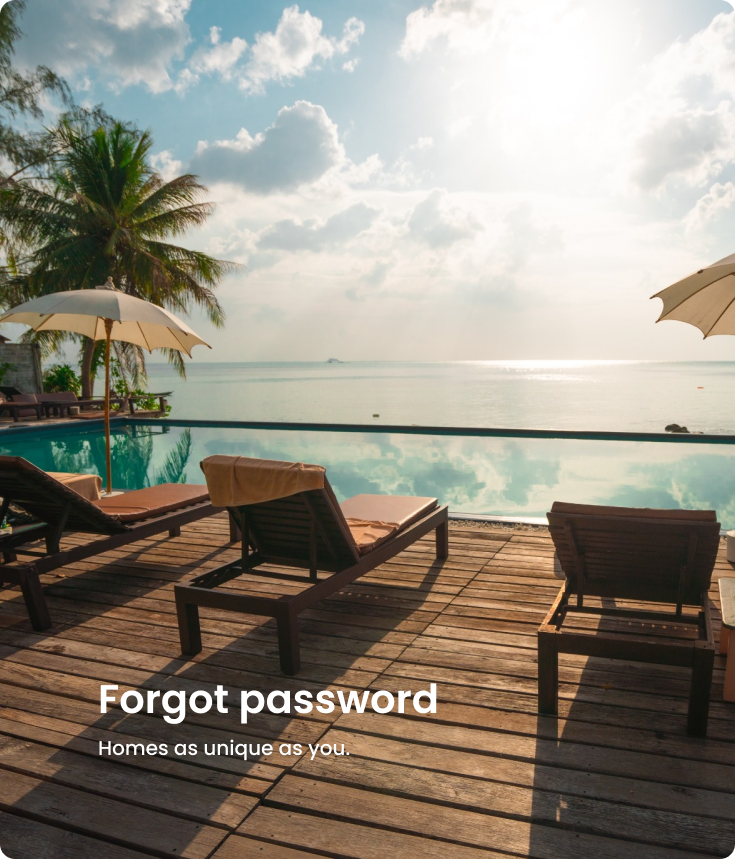
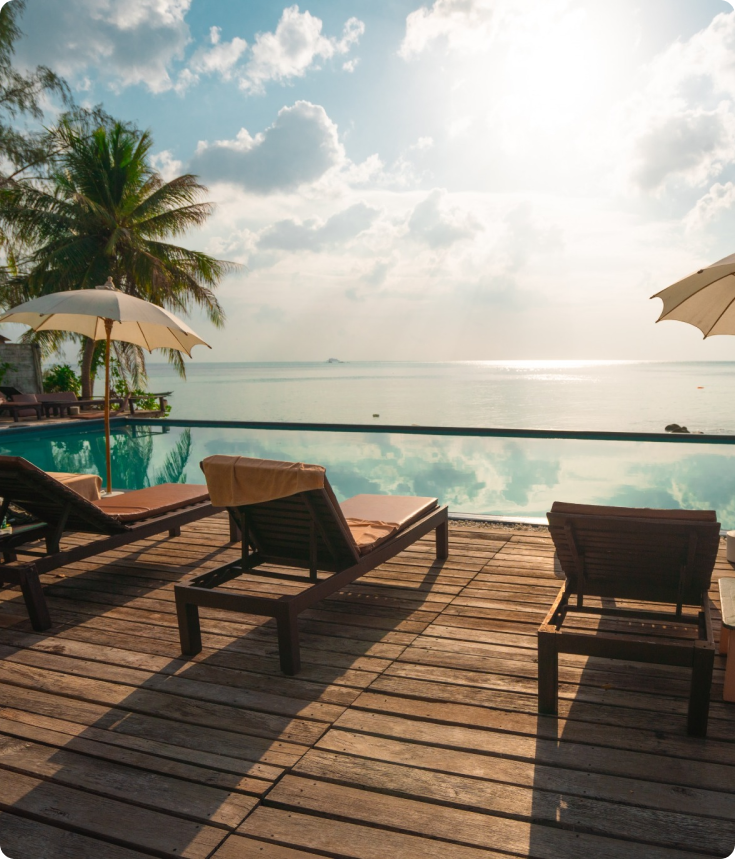
update login and add logic

Changed region(s): [[0.1197, 0.787, 0.5986, 0.8778]]

diff --git a/src/app/feature/auth/components/login/login.component.html b/src/app/feature/auth/components/login/login.component.html
@@ -1,14 +1,16 @@
 <section class="section-auth d-flex align-items-center justify-content-center">
   <div class="container">
-    <div class="row w-100 auth">
-      <div class="col-md-6">
+    <div class="row auth">
+      <div class="col-lg-6">
         <div class="logo">
           <img
             src="../../../../../assets/images/landing/Staycation.svg"
             alt="logo"
           />
         </div>
-        <div class="auth-form p-5 d-flex flex-column gap-5">
+        <div
+          class="auth-form px-lg-5 px-3 py-5 d-flex flex-column gap-md-5 gap-4"
+        >
           <div class="auth-title">
             <h2 class="mb-4">Sign in</h2>
             <p class="mb-0">If you don’t have an account register</p>
@@ -17,38 +19,95 @@
               <a routerLink="/auth/register" class="fw-bold">Register here !</a>
             </p>
           </div>
-          <form class="d-flex flex-column gap-4">
+
+          <form
+            class="d-flex flex-column gap-4"
+            [formGroup]="loginForm"
+            (ngSubmit)="onLogin(loginForm)"
+          >
             <div class="d-flex flex-column gap-2">
               <label>Email Address</label>
-              <input
-                type="email"
-                pInputText
-                aria-describedby="email-help"
-                placeholder="Please type here ..."
-              />
-              <small id="email-help"> </small>
+              <span class="p-input-icon-right">
+                <i class="pi pi-envelope"></i>
+                <input
+                  type="email"
+                  formControlName="email"
+                  pInputText
+                  aria-describedby="email-help"
+                  placeholder="Please type here ..."
+                />
+              </span>
+              <div class="position-relative">
+                <small
+                  class="text-danger"
+                  *ngIf="
+                    loginForm.get('email')?.invalid &&
+                    loginForm.get('email')?.touched &&
+                    loginForm.get('email')?.hasError('required')
+                  "
+                >
+                  Email is required.
+                </small>
+                <small
+                  class="text-danger"
+                  *ngIf="
+                    loginForm.get('email')?.touched &&
+                    loginForm.get('email')?.hasError('email')
+                  "
+                >
+                  Invalid email format.
+                </small>
+              </div>
             </div>
 
             <div class="d-flex flex-column gap-2">
               <label>Password</label>
               <p-password
+                formControlName="password"
                 [toggleMask]="true"
                 placeholder="Please type here ..."
               ></p-password>
-              <a routerLink="/auth/register" class="text-end"
-                >Forgot Password ?</a
-              >
+              <div class="position-relative">
+                <small
+                  *ngIf="
+                    loginForm.get('password')?.touched &&
+                    loginForm.get('password')?.invalid &&
+                    loginForm.get('password')?.hasError('required')
+                  "
+                  class="text-danger"
+                >
+                  Password is required.
+                </small>
+                <small
+                  *ngIf="
+                    loginForm.get('password')?.touched &&
+                    loginForm.get('password')?.hasError('minlength')
+                  "
+                  class="text-danger"
+                >
+                  Password must be at least 6 characters.
+                </small>
+              </div>
             </div>
 
             <p-button
               label="Login"
               [loading]="loading"
-              class="btn-main"
+              class="btn-main mt-3"
+              type="submit"
             ></p-button>
+            <span class="text-center">
+              <a routerLink="/auth/forget-password">Forgot Password ?</a>
+            </span>
           </form>
         </div>
       </div>
-      <div class="col-md-6 login-back"></div>
+      <div
+        class="col-lg-6 d-lg-flex d-none login-back p-5 d-flex flex-column justify-content-end"
+      >
+        <h2 class="main-color">Sign in to Roamhome</h2>
+        <p class="main-color">Homes as unique as you.</p>
+      </div>
     </div>
   </div>
 </section>

diff --git a/src/app/feature/auth/components/login/login.component.ts b/src/app/feature/auth/components/login/login.component.ts
@@ -1,5 +1,10 @@
 import { Component } from '@angular/core';
-
+import { AuthService } from './../../services/auth.service';
+import { FormControl, FormGroup, Validators } from '@angular/forms';
+import { LoginRequest } from '../../interfaces/login-request';
+import { Router } from '@angular/router';
+import { MessageService } from 'primeng/api';
+import { LoginResponse } from '../../interfaces/login-response';
 @Component({
   selector: 'app-login',
   templateUrl: './login.component.html',
@@ -7,4 +12,54 @@ import { Component } from '@angular/core';
 })
 export class LoginComponent {
   loading: boolean = false;
+  response: LoginResponse;
+
+  loginForm = new FormGroup({
+    email: new FormControl(null, [Validators.required, Validators.email]),
+    password: new FormControl(null, [
+      Validators.required,
+      Validators.minLength(6),
+    ]),
+  });
+
+  constructor(
+    private authService: AuthService,
+    private messageService: MessageService,
+    private router: Router
+  ) {}
+
+  onLogin(data: FormGroup) {
+    this.loginForm.markAllAsTouched();
+    if (data.invalid) {
+      return;
+    }
+
+    this.loading = true;
+    this.authService.login(data.value as LoginRequest).subscribe({
+      next: (res) => {
+        this.response = res;
+      },
+      error: (error) => {
+        this.loading = false;
+        this.messageService.add({
+          severity: 'error',
+          summary: 'Fail',
+          detail: error.error.message,
+        });
+      },
+      complete: () => {
+        this.loading = false;
+        this.messageService.add({
+          severity: 'success',
+          summary: 'Success',
+          detail: this.response.message,
+        });
+        if (this.response.data.user.role == 'admin') {
+          this.router.navigate(['/dashboard']);
+        } else if (this.response.data.user.role == 'user') {
+          this.router.navigate(['/landing']);
+        }
+      },
+    });
+  }
 }

diff --git a/src/assets/styles/pages/auth.scss b/src/assets/styles/pages/auth.scss
@@ -1,23 +1,40 @@
 .section-auth {
   min-height: 100vh;
-  background-color: #f2f2f2;
+  background-color: var(--bg-gary-color);
 
   .auth {
-    background-color: #fff;
-    color: #333;
+    background-color: var(--bg-main-color);
+    color: var(--default-color);
     padding: 30px;
     border-radius: 15px;
-    min-height: 85vh;
+    max-height: 100%;
+    min-height: 650px;
+    width: 90%;
+    margin-inline: auto;
+    margin-block: 10px;
 
     a,
     label {
-      color: #152C5B !important;
+      color: var(--ternary-color) !important;
     }
 
     button {
       width: 100%;
     }
+
+    small {
+      position: absolute;
+      
+    }
   }
+
+  @media (max-width: 500px) {
+    .auth {
+      padding-inline: 10px;
+      width: 100%;
+    }
+  }
+
 
   .login-back {
     background: url(../../images/auth/login.png) no-repeat;

diff --git a/src/app/feature/auth/services/auth.service.ts b/src/app/feature/auth/services/auth.service.ts
@@ -6,14 +6,19 @@ import { Observable } from 'rxjs';
 import { ResetPasswordRequest } from '../interfaces/reset-password-request';
 import { ResetPasswordResponse } from '../interfaces/reset-password-response';
 import { ForgetPasswordResponse } from '../interfaces/forget-password-response';
+import { LoginRequest } from '../interfaces/login-request';
+import { LoginResponse } from '../interfaces/login-response';
 
 @Injectable({
   providedIn: 'root',
 })
 export class AuthService {
   authBaseUrl = 'portal/users/';
-
   constructor(private _http: HttpClient) {}
+
+  login(data: LoginRequest): Observable<LoginResponse> {
+    return this._http.post<LoginResponse>(this.authBaseUrl + 'login', data);
+  }
 
   forgetPassword(email: string): Observable<ForgetPasswordResponse> {
     return this._http.post<ForgetPasswordResponse>(

diff --git a/src/assets/styles/pages/colors.scss b/src/assets/styles/pages/colors.scss
@@ -1,0 +1,40 @@
+:root {
+  --default-color: #333;
+  --main-color: #fff;
+  --secondary-color: #3252DF;
+  --ternary-color: #152C5B;
+  --bg-main-color: #fff;
+  --bg-secondary-color: #3252DF;
+  --bg-gary-color: #F5F6F8;
+  --btn-hover: #3e60f9;
+  --btn-shadow: 0 8px 15px rgba(62, 96, 249, 0.3);
+}
+
+
+.default-color {
+  color: var(--default-color);
+}
+
+.main-color {
+  color: var(--main-color);
+}
+
+.secondary-color {
+  color: var(--secondary-color);
+}
+
+.ternary-color {
+  color: var(--ternary-color);
+}
+
+.bg-main-color {
+  background-color: var(--bg-main-color);
+}
+
+.bg-secondary-color {
+  background-color: var(--bg-secondary-color);
+}
+
+.bg-gray-color {
+  background-color: var(--bg-gary-color);
+}

diff --git a/src/assets/styles/pages/inputs.scss b/src/assets/styles/pages/inputs.scss
@@ -1,4 +1,14 @@
 .p-password,
 .p-inputtext {
   width: 100%;
+  background-color: var(--bg-gary-color) !important;
+}
+
+.p-inputtext.ng-dirty.ng-invalid:focus,
+.p-password-mask.ng-invalid.ng-dirty .p-password-input:focus {
+  box-shadow: 0 0 0 0.2rem rgba(254, 38, 38, 0.229) !important;
+}
+
+::placeholder {
+  font-size: 13px !important;
 }

diff --git a/src/assets/styles/pages/buttons.scss b/src/assets/styles/pages/buttons.scss
@@ -1,4 +1,12 @@
-
-button{
+button {
   border-radius: revert-layer !important;
+}
+
+.btn-main .p-button {
+  background-color: var(--bg-secondary-color) !important;
+  box-shadow: var(--btn-shadow) !important;
+
+  &:hover {
+    background-color: var(--btn-hover) !important;
+  }
 }

diff --git a/src/app/feature/auth/interfaces/login-response.ts b/src/app/feature/auth/interfaces/login-response.ts
@@ -1,0 +1,16 @@
+interface User {
+  _id: string;
+  userName: string;
+  role: string;
+}
+
+interface AuthData {
+  user: User;
+  token: string;
+}
+
+export interface LoginResponse {
+  success: boolean;
+  message: string;
+  data: AuthData;
+}

diff --git a/src/app/feature/auth/interfaces/login-request.ts b/src/app/feature/auth/interfaces/login-request.ts
@@ -1,0 +1,4 @@
+export interface LoginRequest {
+  email: string;
+  password: string;
+}
